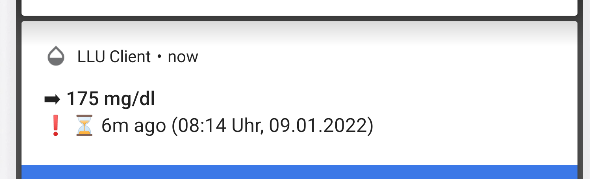
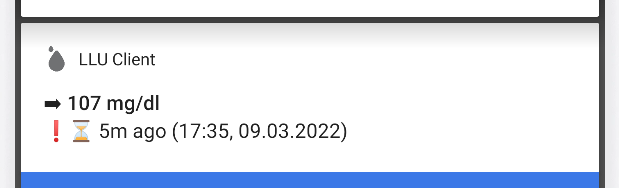
Minor layout improvements, update README.md, update images

Changed region(s): [[0.0, 0.0, 1.0, 1.0]]

diff --git a/app/src/main/java/de/cmtjk/lluclient/LLUClientService.java b/app/src/main/java/de/cmtjk/lluclient/LLUClientService.java
@@ -108,7 +108,7 @@ public class LLUClientService extends Service {
         manager.createNotificationChannel(notificationChannel);
 
         notificationBuilder = new NotificationCompat.Builder(getApplicationContext(), channelId);
-        notificationBuilder.setSmallIcon(R.drawable.blood_sugar)
+        notificationBuilder.setSmallIcon(R.drawable.blood_sugar_icon)
                 .setShowWhen(false);
         Intent intentMainLanding = new Intent(getApplicationContext(), MainActivity.class);
         PendingIntent pendingIntent = PendingIntent.getActivity(getApplicationContext(), 0, intentMainLanding, FLAG_IMMUTABLE);

diff --git a/README.md b/README.md
@@ -1,10 +1,11 @@
 # LLU Client
+[Download ⬇](https://github.com/cmtjk/LLUClient/releases)
 
-Displays your current blood glucose level fetched from LibreView as notification: Status bar, lock screen, smartwatch (partially).
+Displays your current blood glucose level fetched from LibreView as notification: status bar, lock screen, smartwatch (partially).
 
 ## Attributions
-- Special thanks to [Nechoj](https://insulinclub.de/core/index.php?user/46518-nechoj/).
-- [Diabetes icons created by Freepik - Flaticon](https://www.flaticon.com/free-icons/diabetes "diabetes icons")
+- Special thanks to [Nechoj](https://insulinclub.de/core/index.php?user/46518-nechoj/)
+- ![](img/blood_sugar_icon.png)[Diabetes icons created by Freepik - Flaticon](https://www.flaticon.com/free-icons/diabetes "diabetes icons")
 
 ## Requirements
 - LibreView Account (invite yourself in FreeStyle Libre app: https://www.librelinkup.com/articles/getting-started)
@@ -15,6 +16,8 @@ Want mmol/l? Enable debug and tell me how your payload looks like. Then I can im
 
 ## How it works
 The application directly queries the LibreView API every 60 seconds (default) to get current blood glucose levels. Hence it requires an internet connection to work.
+
+![](img/layout_view.png)
 
 The notification will show your current blood glucose level, the trend arrow, the time passed since the last measurement and its timestamp.
 
